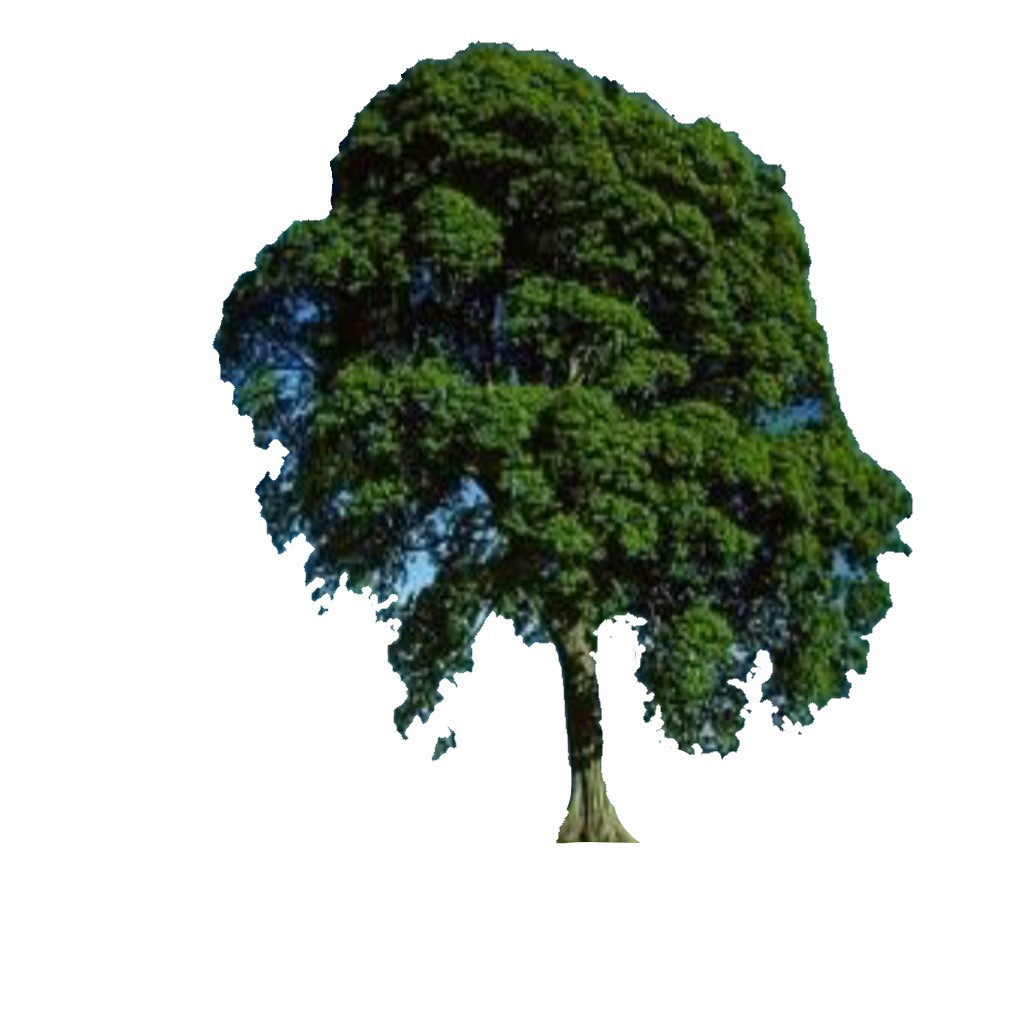
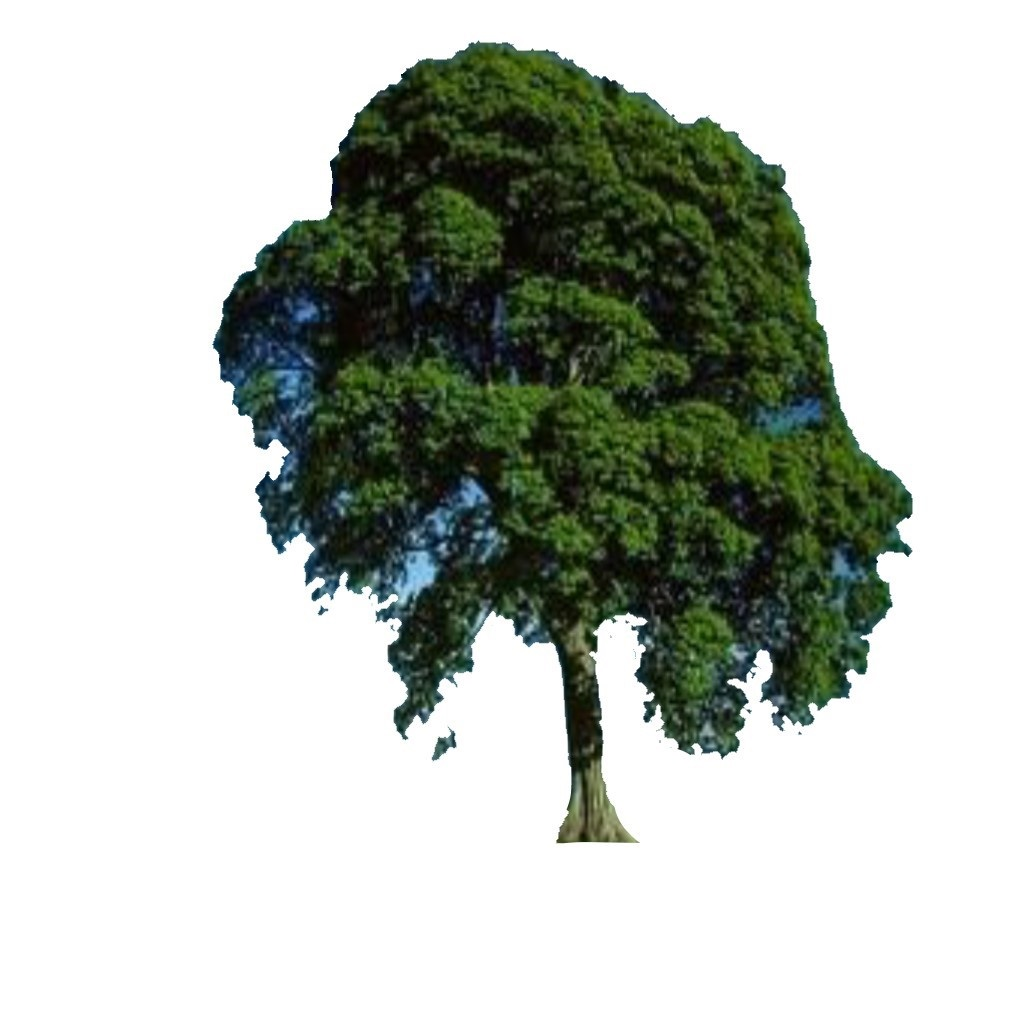
Se cambio la manera en que se dibujan los poligonos

diff --git a/Caso8/View.html b/Caso8/View.html
@@ -11,38 +11,124 @@
      </head>
      <body>
          <svg id='base'>
- <line x1="170.66666666666666" y1="0" x2="170.66666666666666" y2="1024" stroke= black /> 
-<line x1="0" y1="170.66666666666666" x2="1024" y2="170.66666666666666" stroke= black /> 
-<line x1="341.3333333333333" y1="0" x2="341.3333333333333" y2="1024" stroke= black /> 
-<line x1="0" y1="341.3333333333333" x2="1024" y2="341.3333333333333" stroke= black /> 
-<line x1="512.0" y1="0" x2="512.0" y2="1024" stroke= black /> 
-<line x1="0" y1="512.0" x2="1024" y2="512.0" stroke= black /> 
-<line x1="682.6666666666666" y1="0" x2="682.6666666666666" y2="1024" stroke= black /> 
-<line x1="0" y1="682.6666666666666" x2="1024" y2="682.6666666666666" stroke= black /> 
-<line x1="853.3333333333333" y1="0" x2="853.3333333333333" y2="1024" stroke= black /> 
-<line x1="0" y1="853.3333333333333" x2="1024" y2="853.3333333333333" stroke= black /> 
-<polygon points="338,136 338,136 323,161 336,168 338,167 338,154 " style="fill:rgb(103.67692307692307,117.53846153846153,117.72307692307692);stroke:black;stroke-width:1" />
-<polygon points="477,39 368,91 340,158 508,168 508,168 508,110 " style="fill:rgb(41.26529428819948,55.09316710157533,28.587996520730645);stroke:black;stroke-width:1" />
-<polygon points="513,40 510,42 510,49 677,168 677,168 678,167 " style="fill:rgb(55.805419458054196,76.61593840615939,34.05199480051995);stroke:black;stroke-width:1" />
-<polygon points="700,112 682,113 680,144 788,168 788,168 788,168 " style="fill:rgb(77.21594918842625,104.7134791813691,59.43119266055046);stroke:black;stroke-width:1" />
-<polygon points="332,170 332,170 211,332 337,338 337,338 338,337 " style="fill:rgb(36.50783532536521,52.09535192563081,48.57954847277556);stroke:black;stroke-width:1" />
-<polygon points="340,170 340,170 340,259 508,338 508,338 508,286 " style="fill:rgb(28.528294306703398,38.00160697887971,21.352961432506888);stroke:black;stroke-width:1" />
-<polygon points="510,170 510,170 510,273 678,338 678,338 678,323 " style="fill:rgb(32.59923094582185,44.40622130394858,20.406278696051423);stroke:black;stroke-width:1" />
-<polygon points="680,170 680,170 680,232 826,338 831,337 831,337 " style="fill:rgb(49.2226595020056,68.21728600620601,30.54431241958677);stroke:black;stroke-width:1" />
-<polygon points="208,340 208,340 208,348 338,508 338,508 338,402 " style="fill:rgb(42.24037577861738,65.18298784846318,69.93291126314715);stroke:black;stroke-width:1" />
-<polygon points="340,340 340,340 340,494 508,508 508,508 508,407 " style="fill:rgb(36.760904499540864,53.56646005509642,31.737603305785125);stroke:black;stroke-width:1" />
-<polygon points="510,340 510,340 510,467 677,508 677,508 678,422 " style="fill:rgb(43.85462580348944,62.26520890725436,26.866333792470154);stroke:black;stroke-width:1" />
-<polygon points="681,340 681,340 680,491 844,508 848,507 848,432 " style="fill:rgb(45.429078853895334,66.40107743310443,31.385093535401374);stroke:black;stroke-width:1" />
-<polygon points="852,426 852,426 850,476 910,508 918,501 918,501 " style="fill:rgb(67.92173913043479,95.04891304347827,55.708695652173915);stroke:black;stroke-width:1" />
-<polygon points="257,510 257,510 256,514 318,616 333,609 338,524 " style="fill:rgb(70.45721784776903,91.65826771653543,99.32703412073491);stroke:black;stroke-width:1" />
-<polygon points="340,510 340,510 340,571 454,678 478,671 508,567 " style="fill:rgb(52.56288763882879,72.76691187076301,71.14943026107025);stroke:black;stroke-width:1" />
-<polygon points="511,510 511,510 510,552 676,678 678,677 678,550 " style="fill:rgb(46.1033501059322,60.46841896186441,39.1033501059322);stroke:black;stroke-width:1" />
-<polygon points="682,510 680,511 680,597 847,678 847,678 848,650 " style="fill:rgb(41.949364886027496,60.77936314598921,38.22405892929645);stroke:black;stroke-width:1" />
-<polygon points="850,510 850,510 850,622 862,677 867,675 919,551 " style="fill:rgb(62.86379746835443,90.54531645569621,68.08151898734177);stroke:black;stroke-width:1" />
-<polygon points="400,680 400,680 392,724 439,766 458,749 463,739 " style="fill:rgb(107.75,127.19787985865725,123.11837455830388);stroke:black;stroke-width:1" />
-<polygon points="568,680 562,682 552,826 627,847 639,846 678,740 " style="fill:rgb(89.59419911157565,97.62660047034231,76.59419911157565);stroke:black;stroke-width:1" />
-<polygon points="682,680 680,681 680,719 730,759 848,701 848,695 " style="fill:rgb(74.60193295077016,97.40682573240713,83.17789187556629);stroke:black;stroke-width:1" />
-<polygon points="851,682 851,682 850,687 854,700 854,700 855,689 " style="fill:rgb(217.8695652173913,226.34782608695653,227.69565217391303);stroke:black;stroke-width:1" />
+ <line x1="93.0909090909091" y1="0" x2="93.0909090909091" y2="1024" stroke= black /> 
+<line x1="0" y1="93.0909090909091" x2="1024" y2="93.0909090909091" stroke= black /> 
+<line x1="186.1818181818182" y1="0" x2="186.1818181818182" y2="1024" stroke= black /> 
+<line x1="0" y1="186.1818181818182" x2="1024" y2="186.1818181818182" stroke= black /> 
+<line x1="279.27272727272725" y1="0" x2="279.27272727272725" y2="1024" stroke= black /> 
+<line x1="0" y1="279.27272727272725" x2="1024" y2="279.27272727272725" stroke= black /> 
+<line x1="372.3636363636364" y1="0" x2="372.3636363636364" y2="1024" stroke= black /> 
+<line x1="0" y1="372.3636363636364" x2="1024" y2="372.3636363636364" stroke= black /> 
+<line x1="465.4545454545455" y1="0" x2="465.4545454545455" y2="1024" stroke= black /> 
+<line x1="0" y1="465.4545454545455" x2="1024" y2="465.4545454545455" stroke= black /> 
+<line x1="558.5454545454546" y1="0" x2="558.5454545454546" y2="1024" stroke= black /> 
+<line x1="0" y1="558.5454545454546" x2="1024" y2="558.5454545454546" stroke= black /> 
+<line x1="651.6363636363637" y1="0" x2="651.6363636363637" y2="1024" stroke= black /> 
+<line x1="0" y1="651.6363636363637" x2="1024" y2="651.6363636363637" stroke= black /> 
+<line x1="744.7272727272729" y1="0" x2="744.7272727272729" y2="1024" stroke= black /> 
+<line x1="0" y1="744.7272727272729" x2="1024" y2="744.7272727272729" stroke= black /> 
+<line x1="837.818181818182" y1="0" x2="837.818181818182" y2="1024" stroke= black /> 
+<line x1="0" y1="837.818181818182" x2="1024" y2="837.818181818182" stroke= black /> 
+<line x1="930.9090909090911" y1="0" x2="930.9090909090911" y2="1024" stroke= black /> 
+<line x1="0" y1="930.9090909090911" x2="1024" y2="930.9090909090911" stroke= black /> 
+<polygon points="56,2 69,0 61,10 53,30 88,40 82,50 90,55 88,42 89,32 90,22 80,12 75,2 " style="fill:rgb(230.86666666666667,230.86666666666667,230.86666666666667);stroke:black;stroke-width:1" />
+<polygon points="95,1 110,0 93,10 98,20 103,30 100,40 121,50 101,60 128,70 156,80 182,90 184,89 160,82 178,72 177,62 179,52 177,42 132,32 113,22 184,12 182,2 " style="fill:rgb(170.2621359223301,170.2621359223301,170.2621359223301);stroke:black;stroke-width:1" />
+<polygon points="189,1 190,0 187,10 187,20 187,30 201,40 206,50 200,60 205,70 187,80 198,90 274,88 273,82 262,72 276,62 274,52 273,42 277,32 264,22 265,12 274,2 " style="fill:rgb(134.5503355704698,134.5503355704698,135.79597315436243);stroke:black;stroke-width:1" />
+<polygon points="281,1 283,0 291,10 288,20 284,30 284,40 293,50 290,60 321,70 280,80 289,90 370,88 345,82 367,72 367,62 363,52 369,42 369,32 349,22 366,12 366,2 " style="fill:rgb(52.79306358381503,52.79306358381503,54.120231213872835);stroke:black;stroke-width:1" />
+<polygon points="374,0 374,0 374,10 377,20 375,30 389,40 373,50 372,60 375,70 391,80 400,90 463,90 456,82 452,72 459,62 461,52 460,42 432,32 461,22 453,12 455,2 " style="fill:rgb(50.339513325608344,50.339513325608344,50.339513325608344);stroke:black;stroke-width:1" />
+<polygon points="467,2 472,0 475,10 465,20 468,30 474,40 472,50 474,60 465,70 465,80 480,90 556,86 553,82 548,72 536,62 537,52 550,42 540,32 555,22 532,12 519,2 " style="fill:rgb(56.23871733966746,56.23871733966746,57.60688836104513);stroke:black;stroke-width:1" />
+<polygon points="561,5 576,0 574,10 562,20 567,30 559,40 558,50 598,60 564,70 558,80 584,90 648,91 646,82 640,72 648,62 649,52 621,42 634,32 637,22 626,12 634,2 " style="fill:rgb(86.65654205607477,86.65654205607477,87.89953271028037);stroke:black;stroke-width:1" />
+<polygon points="652,0 652,0 652,10 658,20 651,30 656,40 653,50 660,60 654,70 654,80 657,90 742,87 739,82 736,72 731,62 738,52 724,42 723,32 729,22 732,12 740,2 " style="fill:rgb(146.11111111111111,146.11111111111111,146.11111111111111);stroke:black;stroke-width:1" />
+<polygon points="744,1 761,0 755,10 747,20 766,30 748,40 746,50 761,60 753,70 754,80 753,90 780,89 769,82 777,72 788,62 786,52 810,42 806,32 798,22 789,2 " style="fill:rgb(207.66919191919192,207.66919191919192,207.66919191919192);stroke:black;stroke-width:1" />
+<polygon points="151,93 151,93 184,133 184,133 165,95 " style="fill:rgb(209.55882352941177,209.55882352941177,209.55882352941177);stroke:black;stroke-width:1" />
+<polygon points="189,98 196,93 196,103 196,113 226,123 192,133 211,143 209,153 207,163 212,173 255,183 276,184 245,175 256,155 270,145 273,135 277,125 271,115 276,105 267,95 " style="fill:rgb(120.30666666666667,120.18333333333334,118.77333333333333);stroke:black;stroke-width:1" />
+<polygon points="281,97 288,93 287,103 280,113 299,123 281,133 291,143 284,153 294,163 303,173 281,183 369,182 360,175 369,165 370,155 369,145 367,135 314,125 364,115 347,105 369,95 " style="fill:rgb(72.53872832369942,58.82196531791907,41.35491329479769);stroke:black;stroke-width:1" />
+<polygon points="373,95 384,93 387,103 381,113 373,123 374,133 374,143 373,153 375,163 380,173 389,183 463,184 458,175 459,165 459,155 462,145 449,135 463,125 460,115 457,105 463,95 " style="fill:rgb(83.54157043879907,59.095842956120094,29.867205542725173);stroke:black;stroke-width:1" />
+<polygon points="466,94 472,93 467,103 466,113 486,123 474,133 479,143 468,153 468,163 482,173 469,183 553,184 536,175 543,165 542,155 548,145 537,135 549,125 537,115 552,105 551,95 " style="fill:rgb(79.96073903002309,60.31639722863741,33.83256351039261);stroke:black;stroke-width:1" />
+<polygon points="558,97 569,93 561,103 564,113 558,123 574,133 569,143 566,153 559,163 564,173 560,183 644,171 583,175 649,165 628,155 624,145 638,135 634,125 649,115 648,105 647,95 " style="fill:rgb(86.42460317460318,85.2063492063492,81.49338624338624);stroke:black;stroke-width:1" />
+<polygon points="652,96 667,93 654,103 658,113 651,123 662,133 721,132 656,135 680,125 730,115 732,105 729,95 " style="fill:rgb(129.29642857142858,129.29642857142858,129.29642857142858);stroke:black;stroke-width:1" />
+<polygon points="745,94 780,102 764,95 " style="fill:rgb(242.55,242.55,242.55);stroke:black;stroke-width:1" />
+<polygon points="205,186 205,186 249,196 213,206 225,216 207,226 215,236 192,246 191,256 193,266 210,276 273,277 277,268 275,258 268,248 268,238 272,228 273,218 266,208 274,198 266,188 " style="fill:rgb(230.4283536585366,198.5533536585366,149.03506097560975);stroke:black;stroke-width:1" />
+<polygon points="279,187 282,186 292,196 280,206 304,216 284,226 279,236 282,246 295,256 291,266 281,276 370,273 368,268 363,258 370,248 364,238 357,228 366,218 341,208 367,198 361,188 " style="fill:rgb(232.97806004618937,156.78983833718246,59.97344110854503);stroke:black;stroke-width:1" />
+<polygon points="375,186 375,186 373,196 380,206 383,216 374,226 383,236 377,246 372,256 378,266 375,276 458,276 449,268 459,258 434,248 458,238 460,228 462,218 462,208 456,198 448,188 " style="fill:rgb(244.3187066974596,168.3891454965358,78.16974595842956);stroke:black;stroke-width:1" />
+<polygon points="467,186 467,186 473,196 469,206 466,216 467,226 480,236 467,246 472,256 472,266 494,276 556,272 553,268 555,258 555,248 555,238 546,228 555,218 556,208 554,198 552,188 " style="fill:rgb(248.40531177829098,176.9434180138568,91.43071593533487);stroke:black;stroke-width:1" />
+<polygon points="560,190 569,186 561,196 559,206 569,216 570,226 565,236 559,246 561,256 569,266 565,276 648,276 639,268 648,258 647,248 643,238 645,228 613,218 631,208 623,198 609,188 " style="fill:rgb(243.48593350383632,201.68670076726343,142.59718670076725);stroke:black;stroke-width:1" />
+<polygon points="651,256 651,256 656,266 658,276 678,276 668,268 " style="fill:rgb(253.84444444444443,253.75555555555556,244.6888888888889);stroke:black;stroke-width:1" />
+<polygon points="107,304 147,279 165,289 148,299 155,309 147,319 105,329 109,339 125,349 133,359 94,369 182,364 184,361 172,351 179,341 170,331 171,321 160,311 181,301 157,291 161,281 " style="fill:rgb(243.43562231759657,237.01502145922746,219.12875536480686);stroke:black;stroke-width:1" />
+<polygon points="191,279 191,279 198,289 193,299 219,309 192,319 189,329 196,339 211,349 195,359 191,369 277,367 271,361 259,351 252,341 268,331 274,321 271,311 273,301 260,291 259,281 " style="fill:rgb(205.58680555555554,141.30902777777777,61.548611111111114);stroke:black;stroke-width:1" />
+<polygon points="282,279 282,279 281,289 279,299 284,309 286,319 299,329 296,339 285,349 279,359 289,369 370,369 359,361 368,351 367,341 365,331 369,321 353,311 351,301 368,291 360,281 " style="fill:rgb(177.53348729792148,117.30715935334872,48.595842956120094);stroke:black;stroke-width:1" />
+<polygon points="372,280 373,279 372,289 389,299 373,309 373,319 405,329 378,339 372,349 378,359 373,369 462,369 462,361 445,351 463,341 447,331 462,321 445,311 443,301 423,291 457,281 " style="fill:rgb(185.59122401847574,128.45150115473442,60.99076212471132);stroke:black;stroke-width:1" />
+<polygon points="466,279 466,279 471,289 469,299 477,309 481,319 465,329 471,339 489,349 472,359 472,369 554,369 556,361 556,351 551,341 552,331 550,321 548,311 553,301 542,291 547,281 " style="fill:rgb(215.5623556581986,153.3960739030023,78.3810623556582);stroke:black;stroke-width:1" />
+<polygon points="559,284 576,279 575,289 579,299 563,309 559,319 570,329 558,339 591,349 586,359 558,369 648,365 625,361 649,351 648,341 648,331 648,321 645,311 631,301 601,291 634,281 " style="fill:rgb(245.10854503464202,173.79099307159353,88.69399538106235);stroke:black;stroke-width:1" />
+<polygon points="652,281 655,279 666,289 670,299 651,309 654,319 663,329 660,339 653,349 655,359 655,369 730,368 714,361 710,351 693,341 669,331 667,321 680,311 668,301 689,291 688,281 " style="fill:rgb(238.74534161490683,214.93788819875778,173.21946169772258);stroke:black;stroke-width:1" />
+<polygon points="91,374 91,382 91,382 91,374 " style="fill:rgb(254.0,255.0,249.0);stroke:black;stroke-width:1" />
+<polygon points="93,374 98,372 93,382 149,392 107,402 115,412 109,422 137,432 113,442 108,452 127,462 181,461 181,454 182,444 183,434 177,424 179,414 179,404 149,394 180,384 164,374 " style="fill:rgb(211.18941504178272,183.98189415041782,146.6016713091922);stroke:black;stroke-width:1" />
+<polygon points="187,375 193,372 196,382 188,392 193,402 188,412 186,422 205,432 193,442 188,452 187,462 276,460 277,454 273,444 264,434 266,424 275,414 255,404 273,394 259,384 269,374 " style="fill:rgb(110.46073903002309,78.58314087759815,49.135103926096996);stroke:black;stroke-width:1" />
+<polygon points="279,374 287,372 289,382 283,392 281,402 279,412 282,422 310,432 286,442 284,452 290,462 369,463 361,454 369,444 361,434 370,424 368,414 363,404 362,394 361,384 356,374 " style="fill:rgb(172.35219399538107,125.09930715935334,72.98614318706697);stroke:black;stroke-width:1" />
+<polygon points="374,373 386,372 377,382 372,392 383,402 450,412 383,422 396,432 372,442 380,452 383,462 462,458 461,454 458,444 461,434 456,424 438,414 450,404 461,394 434,384 463,374 " style="fill:rgb(199.70900692840647,132.99076212471132,58.54041570438799);stroke:black;stroke-width:1" />
+<polygon points="469,378 485,372 465,382 470,392 481,402 492,412 491,422 485,432 465,442 478,452 465,462 556,463 556,454 539,444 555,434 536,424 554,414 550,404 555,394 538,384 548,374 " style="fill:rgb(167.24826789838338,127.45842956120093,77.2217090069284);stroke:black;stroke-width:1" />
+<polygon points="558,373 569,372 563,382 562,392 561,402 566,412 559,422 561,432 564,442 568,452 561,462 641,463 640,454 649,444 647,434 644,424 641,414 636,404 649,394 634,384 643,374 " style="fill:rgb(112.70438799076213,84.17205542725173,50.98614318706697);stroke:black;stroke-width:1" />
+<polygon points="652,372 652,372 666,382 665,392 652,402 656,412 661,422 651,432 652,442 671,452 673,462 738,460 732,454 711,444 728,434 719,424 729,414 705,404 713,394 730,384 727,374 " style="fill:rgb(223.89252948885976,185.80209698558323,128.53604193971165);stroke:black;stroke-width:1" />
+<polygon points="5,486 7,495 28,505 16,515 9,525 2,535 1,545 17,555 90,553 79,547 73,537 82,527 90,517 75,507 82,497 28,487 " style="fill:rgb(218.2235294117647,178.54789915966387,140.0705882352941);stroke:black;stroke-width:1" />
+<polygon points="101,465 101,465 106,475 94,485 98,495 94,505 98,515 111,525 94,535 107,545 98,555 184,553 177,547 183,537 182,527 167,517 180,507 176,497 177,487 146,477 184,467 " style="fill:rgb(211.41666666666666,145.55,75.24285714285715);stroke:black;stroke-width:1" />
+<polygon points="186,468 200,465 207,475 190,485 195,495 192,505 187,515 188,525 191,535 201,545 209,555 277,556 273,547 264,537 265,527 272,517 269,507 270,497 277,487 277,477 267,467 " style="fill:rgb(189.63048498845265,168.19745958429561,149.36836027713625);stroke:black;stroke-width:1" />
+<polygon points="279,465 279,465 283,475 289,485 282,495 283,505 285,515 288,525 290,535 294,545 282,555 367,554 355,547 361,537 370,527 348,517 358,507 365,497 348,487 369,477 365,467 " style="fill:rgb(163.0877598152425,140.25635103926098,130.98845265588915);stroke:black;stroke-width:1" />
+<polygon points="372,468 379,465 423,475 373,485 373,495 380,505 372,515 372,525 372,535 384,545 376,555 463,555 459,547 463,537 463,527 436,517 451,507 459,497 454,487 457,477 458,467 " style="fill:rgb(224.87528868360278,131.5773672055427,78.74480369515011);stroke:black;stroke-width:1" />
+<polygon points="467,466 478,465 467,475 467,485 491,495 472,505 476,515 469,525 466,535 468,545 480,555 555,554 549,547 535,537 540,527 554,517 556,507 532,497 555,487 533,477 556,467 " style="fill:rgb(146.30536130536132,141.53146853146853,139.7051282051282);stroke:black;stroke-width:1" />
+<polygon points="561,466 570,465 570,475 566,485 566,495 590,505 568,515 558,525 572,535 563,545 558,555 645,556 630,547 624,537 634,527 645,517 648,507 638,497 642,487 645,477 647,467 " style="fill:rgb(234.14236111111111,217.7835648148148,194.3252314814815);stroke:black;stroke-width:1" />
+<polygon points="651,467 654,465 659,475 651,485 655,495 656,505 662,515 656,525 658,535 660,545 668,555 741,555 742,547 738,537 736,527 726,517 715,507 732,497 717,487 738,477 736,467 " style="fill:rgb(236.44483159117306,175.21602787456445,92.9732868757259);stroke:black;stroke-width:1" />
+<polygon points="744,501 782,495 748,505 745,525 744,535 757,545 745,555 832,555 826,547 828,537 830,527 758,517 807,507 786,487 " style="fill:rgb(238.92345679012345,211.720987654321,172.1358024691358);stroke:black;stroke-width:1" />
+<polygon points="837,552 837,555 839,556 " style="fill:rgb(255.0,253.6,242.4);stroke:black;stroke-width:1" />
+<polygon points="1,558 1,558 0,568 19,578 19,588 14,598 4,608 5,618 16,628 11,638 4,648 91,646 89,640 88,630 86,620 77,610 75,600 86,590 80,580 53,570 82,560 " style="fill:rgb(184.41754385964913,114.36140350877193,67.33801169590643);stroke:black;stroke-width:1" />
+<polygon points="93,558 93,558 102,568 109,578 109,588 96,598 93,608 131,618 93,628 120,638 104,648 183,648 182,640 134,630 183,620 172,610 177,600 179,590 165,580 183,570 163,560 " style="fill:rgb(206.21131639722864,119.35103926096998,41.84411085450346);stroke:black;stroke-width:1" />
+<polygon points="190,558 190,558 188,568 188,578 199,588 211,598 190,608 221,618 188,628 196,638 186,648 271,649 273,640 274,630 277,620 272,610 267,600 266,590 261,580 264,570 264,560 " style="fill:rgb(204.1420323325635,122.27367205542726,57.722863741339495);stroke:black;stroke-width:1" />
+<polygon points="281,560 285,558 288,568 279,578 280,588 291,598 287,608 288,618 282,628 282,638 283,648 369,644 364,640 361,630 360,620 370,610 365,600 368,590 354,580 364,570 366,560 " style="fill:rgb(225.9503464203233,89.82332563510393,59.75288683602771);stroke:black;stroke-width:1" />
+<polygon points="373,560 402,558 397,568 400,578 373,588 404,598 386,608 387,618 383,628 378,638 377,648 463,649 453,640 454,630 461,620 454,610 462,600 460,590 463,580 458,570 461,560 " style="fill:rgb(241.91685912240186,107.21939953810623,78.28060046189377);stroke:black;stroke-width:1" />
+<polygon points="465,559 471,558 472,568 466,578 468,588 469,598 470,608 470,618 465,628 471,638 484,648 555,649 548,640 522,630 556,620 540,610 555,600 555,590 553,580 554,570 552,560 " style="fill:rgb(235.91339491916858,145.42494226327943,108.49076212471131);stroke:black;stroke-width:1" />
+<polygon points="559,559 569,558 576,568 567,578 566,588 571,598 597,608 570,618 567,628 563,638 570,648 646,649 642,640 627,630 647,620 645,610 648,600 646,590 626,580 645,570 643,560 " style="fill:rgb(236.93418013856814,167.57621247113164,94.42725173210161);stroke:black;stroke-width:1" />
+<polygon points="652,562 656,558 653,568 654,578 653,588 652,598 673,608 657,618 660,628 661,638 673,648 740,645 732,640 740,630 735,620 735,610 742,600 742,590 730,580 741,570 737,560 " style="fill:rgb(235.98267898383372,158.03348729792148,60.109699769053115);stroke:black;stroke-width:1" />
+<polygon points="747,560 773,558 744,568 751,578 760,588 744,598 744,608 749,618 763,628 762,638 756,648 834,648 802,640 830,630 831,620 834,610 830,600 831,590 830,580 835,570 835,560 " style="fill:rgb(223.11547344110855,148.21247113163972,69.70554272517322);stroke:black;stroke-width:1" />
+<polygon points="837,560 844,558 841,568 839,588 837,598 838,608 839,618 842,628 844,638 905,591 855,630 850,620 849,610 843,600 905,590 904,580 869,570 840,560 " style="fill:rgb(253.3081395348837,251.67441860465115,240.7906976744186);stroke:black;stroke-width:1" />
+<polygon points="2,652 5,651 7,661 57,671 70,681 69,691 69,701 56,711 64,721 67,731 68,741 91,742 88,733 80,723 90,713 70,703 87,683 83,673 58,663 85,653 " style="fill:rgb(228.77628635346755,212.9910514541387,192.668903803132);stroke:black;stroke-width:1" />
+<polygon points="94,652 109,651 120,661 115,671 111,681 94,691 107,701 99,711 97,721 96,731 98,741 184,740 183,733 170,723 173,713 172,703 183,693 176,683 167,673 183,663 155,653 " style="fill:rgb(198.86836027713625,115.13048498845265,44.0635103926097);stroke:black;stroke-width:1" />
+<polygon points="186,652 195,651 187,661 193,671 192,681 197,691 192,701 206,711 186,721 188,731 192,741 276,741 273,733 259,723 276,713 266,703 266,693 268,683 264,673 256,663 269,653 " style="fill:rgb(205.5727482678984,112.11431870669746,40.99884526558891);stroke:black;stroke-width:1" />
+<polygon points="280,651 280,651 285,661 281,671 291,681 292,691 284,701 279,711 284,721 297,731 296,741 370,740 368,733 365,723 366,713 368,703 370,693 368,683 360,673 364,663 355,653 " style="fill:rgb(213.7771362586605,61.37182448036952,37.57852193995381);stroke:black;stroke-width:1" />
+<polygon points="372,651 372,651 378,661 388,671 389,681 377,691 385,701 374,711 377,721 395,731 375,741 463,741 456,733 454,723 462,713 463,703 459,693 461,683 458,673 462,663 458,653 " style="fill:rgb(236.9538106235566,83.6501154734411,56.532332563510394);stroke:black;stroke-width:1" />
+<polygon points="467,652 493,651 515,661 468,671 481,681 467,691 534,701 466,711 471,721 472,731 473,741 555,741 542,733 554,723 552,713 551,703 549,693 550,683 555,673 552,663 544,653 " style="fill:rgb(239.69399538106236,121.53810623556582,59.67782909930716);stroke:black;stroke-width:1" />
+<polygon points="561,652 564,651 578,661 569,671 577,681 573,691 559,701 558,711 573,721 576,731 572,741 647,738 640,733 645,723 645,713 649,703 632,693 647,683 648,673 632,663 640,653 " style="fill:rgb(242.95496535796767,158.6200923787529,68.08545034642032);stroke:black;stroke-width:1" />
+<polygon points="652,652 682,651 655,661 664,671 656,681 653,691 651,701 665,711 657,721 668,731 679,741 742,741 736,733 742,723 742,713 737,703 742,693 735,683 732,673 735,663 739,653 " style="fill:rgb(232.57621247113164,164.28637413394918,76.62817551963049);stroke:black;stroke-width:1" />
+<polygon points="745,653 770,651 775,661 749,671 751,681 749,691 751,701 757,711 745,721 758,731 748,741 830,688 757,733 761,723 771,713 753,703 793,693 780,683 820,673 816,663 803,653 " style="fill:rgb(230.65208333333334,197.6625,157.65625);stroke:black;stroke-width:1" />
+<polygon points="22,744 22,744 59,754 32,764 33,774 67,784 32,794 32,804 64,814 62,824 5,834 90,833 91,826 87,816 85,806 83,796 90,786 81,776 90,766 71,756 26,746 " style="fill:rgb(235.92761394101876,223.80428954423593,206.21447721179624);stroke:black;stroke-width:1" />
+<polygon points="95,745 110,744 96,754 95,764 94,774 94,784 117,794 103,804 121,814 106,824 97,834 181,834 177,826 184,816 178,806 183,796 179,786 184,776 172,766 184,756 174,746 " style="fill:rgb(148.85334872979215,79.47921478060046,36.468822170900694);stroke:black;stroke-width:1" />
+<polygon points="187,746 193,744 199,754 219,764 192,774 191,784 189,794 192,804 192,814 194,824 198,834 277,835 277,826 256,816 276,806 277,796 275,786 277,776 274,766 266,756 264,746 " style="fill:rgb(93.41801385681293,32.687066974595844,21.242494226327945);stroke:black;stroke-width:1" />
+<polygon points="279,744 279,744 286,754 301,764 289,774 286,784 287,794 283,804 282,814 296,824 279,834 364,833 360,826 356,816 368,806 351,796 352,786 363,776 366,766 363,756 364,746 " style="fill:rgb(117.12933025404158,34.312933025404156,34.39838337182448);stroke:black;stroke-width:1" />
+<polygon points="374,745 376,744 391,754 393,764 379,774 379,784 372,794 372,804 384,814 384,824 383,834 462,835 463,826 463,816 457,806 463,796 433,786 462,776 461,766 456,756 457,746 " style="fill:rgb(134.24364896073902,37.17667436489607,37.289838337182445);stroke:black;stroke-width:1" />
+<polygon points="467,746 478,744 465,754 475,764 467,774 465,784 469,794 467,804 469,814 467,824 469,834 556,834 553,826 550,816 551,806 535,796 554,786 543,776 547,766 556,756 548,746 " style="fill:rgb(119.18360277136259,50.18822170900693,28.712471131639724);stroke:black;stroke-width:1" />
+<polygon points="558,744 558,744 564,754 566,764 559,774 566,784 559,794 565,804 576,814 573,824 569,834 648,833 646,826 644,816 647,806 637,796 647,786 648,776 643,766 644,756 644,746 " style="fill:rgb(131.1270207852194,58.90069284064665,28.57043879907621);stroke:black;stroke-width:1" />
+<polygon points="652,747 656,744 653,754 654,764 659,774 654,784 667,794 662,804 656,814 668,824 653,834 735,835 730,826 723,816 729,806 735,796 737,786 719,776 720,766 722,756 723,746 " style="fill:rgb(202.26190476190476,152.63032581453635,99.69799498746868);stroke:black;stroke-width:1" />
+<polygon points="746,746 770,753 746,746 " style="fill:rgb(253.5,253.66666666666666,249.0);stroke:black;stroke-width:1" />
+<polygon points="0,838 61,837 68,847 52,857 63,867 71,877 90,887 8,907 85,917 4,927 88,925 34,919 28,909 74,879 88,869 87,859 89,849 91,839 " style="fill:rgb(250.17972350230414,248.07834101382488,240.31336405529953);stroke:black;stroke-width:1" />
+<polygon points="95,837 95,837 95,847 98,857 108,867 104,877 93,887 94,897 104,907 109,917 96,927 182,927 162,919 180,909 184,899 181,889 178,879 172,869 169,859 168,849 176,839 " style="fill:rgb(187.92592592592592,124.38310185185185,70.4375);stroke:black;stroke-width:1" />
+<polygon points="191,837 191,837 192,847 200,857 190,867 193,877 195,887 214,897 187,907 204,917 189,927 277,927 268,919 268,909 258,899 276,889 271,879 267,869 265,859 272,849 261,839 " style="fill:rgb(200.16050808314088,114.8325635103926,43.16512702078522);stroke:black;stroke-width:1" />
+<polygon points="279,840 288,837 280,847 279,857 281,867 281,877 303,887 281,897 294,907 307,917 289,927 368,928 361,919 369,909 367,899 366,889 368,879 355,869 366,859 362,849 357,839 " style="fill:rgb(206.47459584295612,110.03579676674364,54.763279445727484);stroke:black;stroke-width:1" />
+<polygon points="375,840 383,837 376,847 378,857 398,867 372,877 372,887 374,897 397,907 375,917 375,927 463,924 462,919 463,909 462,899 459,889 454,879 452,869 427,859 461,849 463,839 " style="fill:rgb(198.14549653579678,98.21709006928407,51.98960739030023);stroke:black;stroke-width:1" />
+<polygon points="469,837 469,837 470,847 472,857 467,867 470,877 470,887 467,897 465,907 478,917 482,927 556,928 541,919 555,909 556,899 553,889 534,879 536,869 556,859 546,849 552,839 " style="fill:rgb(197.68706697459584,106.76674364896074,42.095842956120094);stroke:black;stroke-width:1" />
+<polygon points="558,838 559,837 566,847 569,857 565,867 564,877 573,887 564,897 572,907 560,917 564,927 648,927 647,919 648,909 646,899 643,889 640,879 644,869 636,859 649,849 645,839 " style="fill:rgb(219.65704387990763,150.1916859122402,76.16628175519631);stroke:black;stroke-width:1" />
+<polygon points="653,838 657,837 663,847 664,857 653,867 670,877 659,887 654,897 652,907 653,917 654,927 742,928 742,919 741,909 720,899 726,889 680,879 709,869 719,859 705,849 696,839 " style="fill:rgb(209.21288515406164,171.53501400560225,145.61204481792717);stroke:black;stroke-width:1" />
+<polygon points="744,901 768,897 745,907 756,917 758,927 835,925 831,919 811,909 833,899 " style="fill:rgb(212.42342342342343,156.43243243243242,137.38738738738738);stroke:black;stroke-width:1" />
+<polygon points="841,895 851,897 847,907 838,917 841,927 924,926 917,919 918,909 863,899 " style="fill:rgb(231.04109589041096,197.10502283105023,184.98173515981736);stroke:black;stroke-width:1" />
+<polygon points="930,913 946,907 943,927 973,913 931,919 " style="fill:rgb(250.42424242424244,254.66666666666666,251.63636363636363);stroke:black;stroke-width:1" />
+<polygon points="2,931 30,930 9,940 0,950 1,960 9,970 13,980 31,990 1,1000 4,1010 27,1020 88,1018 88,1012 87,1002 88,992 73,982 91,972 90,962 87,952 87,942 91,932 " style="fill:rgb(121.77700348432056,95.4541231126597,105.64459930313589);stroke:black;stroke-width:1" />
+<polygon points="93,930 93,930 97,940 98,950 101,960 102,970 100,980 96,990 98,1000 104,1010 103,1020 183,1018 184,1012 176,1002 173,992 184,982 177,972 175,962 175,952 181,942 183,932 " style="fill:rgb(178.40993071593533,156.96304849884527,148.4607390300231);stroke:black;stroke-width:1" />
+<polygon points="186,931 192,930 189,940 204,950 191,960 202,970 195,980 195,990 195,1000 210,1010 187,1020 276,1021 276,1012 265,1002 272,992 276,982 276,972 232,962 265,952 272,942 277,932 " style="fill:rgb(186.40762124711316,157.88452655889145,137.15357967667435);stroke:black;stroke-width:1" />
+<polygon points="285,930 285,930 279,940 284,950 286,960 285,970 280,980 283,990 283,1000 301,1010 286,1020 370,1018 361,1012 364,1002 370,992 359,982 370,972 363,962 358,952 338,942 337,932 " style="fill:rgb(196.8013856812933,160.7378752886836,122.6824480369515);stroke:black;stroke-width:1" />
+<polygon points="373,934 415,930 381,940 378,950 375,960 374,970 379,980 384,990 382,1000 373,1010 375,1020 463,1020 459,1012 419,1002 459,992 436,982 457,972 461,962 442,952 442,942 463,932 " style="fill:rgb(212.82217090069284,184.67551963048498,151.5646651270208);stroke:black;stroke-width:1" />
+<polygon points="465,930 465,930 465,940 468,950 467,960 498,970 476,980 487,990 465,1000 468,1010 471,1020 556,1021 543,1012 510,1002 549,992 555,982 544,972 552,962 546,952 549,942 544,932 " style="fill:rgb(223.3487297921478,210.0958429561201,190.41108545034643);stroke:black;stroke-width:1" />
+<polygon points="561,930 561,930 566,940 558,950 559,960 561,970 571,980 607,990 565,1000 561,1010 571,1020 649,1018 632,1012 638,1002 642,992 649,982 641,972 636,962 637,952 627,942 621,932 " style="fill:rgb(179.37066974595842,183.23210161662817,183.270207852194);stroke:black;stroke-width:1" />
+<polygon points="653,933 665,930 665,940 662,950 663,960 651,970 683,980 665,990 652,1000 663,1010 655,1020 741,1018 737,1012 742,1002 723,992 707,982 715,972 732,962 733,952 740,942 723,932 " style="fill:rgb(115.29330254041571,74.88799076212472,65.61200923787528);stroke:black;stroke-width:1" />
+<polygon points="745,931 748,930 768,940 745,950 749,960 754,970 744,980 775,990 750,1000 754,1010 750,1020 834,1020 834,1012 827,1002 812,992 829,982 825,972 833,962 826,952 833,942 805,932 " style="fill:rgb(193.86027713625867,87.25750577367205,57.774826789838336);stroke:black;stroke-width:1" />
+<polygon points="837,935 845,930 838,940 842,950 838,960 839,970 838,980 860,990 840,1000 839,1010 842,1020 924,1020 920,1012 905,1002 927,992 928,982 924,972 919,962 879,952 923,942 916,932 " style="fill:rgb(212.8960739030023,97.10277136258661,68.17205542725173);stroke:black;stroke-width:1" />
+<polygon points="939,930 939,930 934,940 932,950 935,960 952,970 943,980 930,990 943,1000 930,1010 954,1020 1014,1021 984,1012 974,1002 1002,992 955,982 1011,972 953,962 971,942 961,932 " style="fill:rgb(234.21857923497268,199.80510018214937,185.99817850637524);stroke:black;stroke-width:1" />
          </svg>
      </body>
  </html>

diff --git a/Caso8/Polygons.py b/Caso8/Polygons.py
@@ -32,24 +32,25 @@ def polygonCreation2(pSectorsList):
     for sectorIndex, sector in enumerate(pSectorsList):
         if sector.getWhitePercentage() != 100:
             polygonPoints = []
-            sector.sortNonWhiteColorsSamplesByXCoordinate()
-            colorSampleAtLeft = sector.getNonWhiteSamples()[0]
-            colorSampleAtRight = sector.getNonWhiteSamples()[sector.getLenOfNonWhiteSamples() - 1]
-            sector.sortNonWhiteColorsSamplesByYCoordinate()
-            colorSampleAtTop = sector.getNonWhiteSamples()[0]
-            colorSampleAtBottom = sector.getNonWhiteSamples()[sector.getLenOfNonWhiteSamples() - 1]
-
             sector.sortNonWhiteColorsSamplesByBothCoordinates()
             colorSampleAtUpperLeftCorner = sector.getNonWhiteSamples()[0]
             colorSampleAtLowerRightCorner = sector.getNonWhiteSamples()[sector.getLenOfNonWhiteSamples() - 1]
-
-            polygonPoints += [str(colorSampleAtTop.getXCoordinate()) + "," + str(colorSampleAtTop.getYCoordinate())]
             polygonPoints += [str(colorSampleAtUpperLeftCorner.getXCoordinate()) + "," + str(colorSampleAtUpperLeftCorner.getYCoordinate())]
-            polygonPoints += [str(colorSampleAtLeft.getXCoordinate()) + "," + str(colorSampleAtLeft.getYCoordinate())]
 
-            polygonPoints += [str(colorSampleAtBottom.getXCoordinate()) + "," + str(colorSampleAtBottom.getYCoordinate())]
+            sectorYRange = sector.getYRange()
+            sector.sortNonWhiteColorsSamplesByYCoordinate()
+            lineIncrease = 10
+            for yCoordinate in range(sectorYRange[0], sectorYRange[1], lineIncrease):
+                point = sector.searchPointByYCoordinate(yCoordinate)
+                if point is not None:
+                    polygonPoints += [str(point.getXCoordinate()) + "," + str(point.getYCoordinate())]
             polygonPoints += [str(colorSampleAtLowerRightCorner.getXCoordinate()) + "," + str(colorSampleAtLowerRightCorner.getYCoordinate())]
-            polygonPoints += [str(colorSampleAtRight.getXCoordinate()) + "," + str(colorSampleAtRight.getYCoordinate())]
+
+            sector.reverseColorsOrder()
+            for yCoordinate in range(sectorYRange[1], sectorYRange[0], -lineIncrease):
+                point = sector.searchPointByYCoordinate(yCoordinate)
+                if point is not None:
+                    polygonPoints += [str(point.getXCoordinate()) + "," + str(point.getYCoordinate())]
 
             averageColor = sector.getAverageColor()
             htmlPolygon = createHtmlPolygon(polygonPoints, averageColor)

diff --git a/Caso8/Sector.py b/Caso8/Sector.py
@@ -75,6 +75,18 @@ class Sector:
     def setYRange(self, pYRange):
         self.__yRange = pYRange
 
+    def getYRange(self):
+        return self.__yRange
+
+    def searchPointByYCoordinate(self, pY):
+        for color in self.__nonWhiteSamples:
+            if color.getYCoordinate() == pY:
+                return color
+        return None
+
+    def reverseColorsOrder(self):
+        self.__nonWhiteSamples.reverse()
+
     def getRandomCoordinate(self):
         randomCoordinateIndex = random.randint(0, len(self.__possibleCoordinates) - 1)
         return randomCoordinateIndex, self.__possibleCoordinates[randomCoordinateIndex]

diff --git a/Caso8/Constants.py b/Caso8/Constants.py
@@ -1,8 +1,8 @@
 IMAGES = ["firstImage.jpg", "secondImage.jpg", "thirdImage.jpg"]
-NUMBER_OF_LINES = 5
+NUMBER_OF_LINES = 10
 NUMBER_OF_SECTORS = (NUMBER_OF_LINES + 1) * (NUMBER_OF_LINES + 1)
 NUMBERS_OF_SAMPLES_PER_SECTOR = 200
-PERCENTAGE_FOR_SAMPLES = 60
+PERCENTAGE_FOR_SAMPLES = 10
 PERCENTAGE_PER_ITERATION = 10
 IMAGESIZE = 0
 HTMLFILE = None

diff --git a/Caso8/Main.py b/Caso8/Main.py
@@ -39,7 +39,7 @@ def createSectorsLineDivision():
 
 if __name__ == "__main__" :
     # Create the object Image
-    image = openImage(Constants.IMAGES[2])
+    image = openImage(Constants.IMAGES[0])
 
     # Creating samples and define colors
     sampleLists = createSectors()
